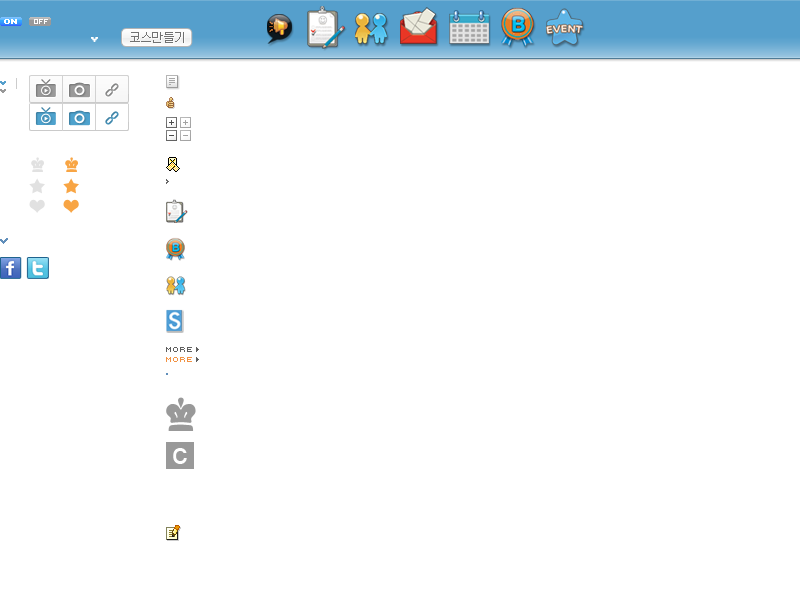
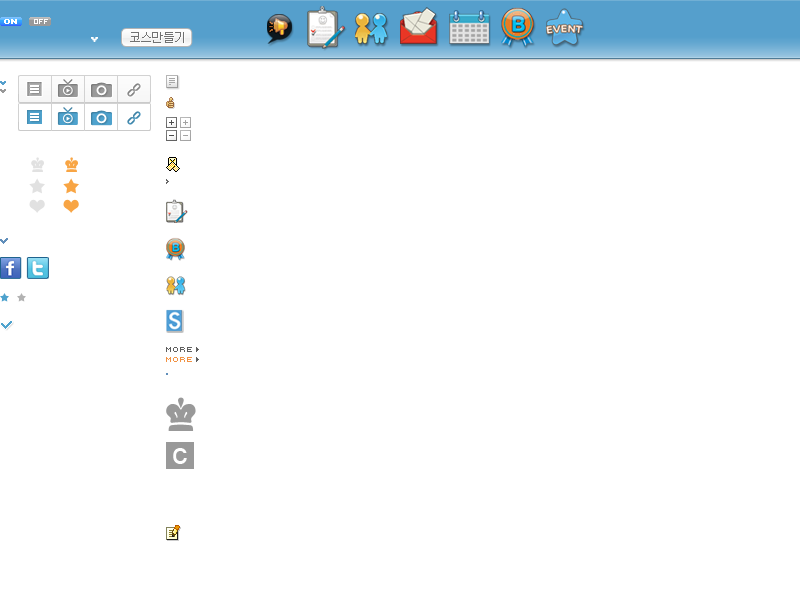
sera

Changed region(s): [[0.0312, 0.12, 0.1875, 0.21], [0.0, 0.48, 0.0312, 0.51]]

diff --git a/WebContent/sera/html/course.html b/WebContent/sera/html/course.html
@@ -113,11 +113,11 @@
     <!-- Course Define //-->
     <!-- Course Section -->
     <div class="course_section">
-      <div class="header">
-        <div>코스개요</div>
-      </div>
       <!-- 코스 개요 -->
       <div>
+        <div class="header mt10">
+          <div>코스개요</div>
+        </div>
         <ul class="content_area">
           <!-- photo-->
           <li class="">
@@ -154,7 +154,18 @@
               <!-- 코스 일정 -->
               <dl class="content bor_no">
                 <dt class="name">코스일정</dt>
-                <dd> </dd>
+                <dd class="gaugeBox fl mt10">
+                    <div class="gaugeOutline">
+                      <label class="gauge" style="width:50%;"></label>
+                    </div>
+                </dd>
+                <dd class="fr">
+                  <div class="btn_large_l">
+                    <div class="btn_large_r"> <span class="icon_blu_down2 mr5"></span>코스 가입하기</div>
+                  </div>
+                </dd>
+                <div class="mission_info">8개의 미션 중 2번쨰가 진행중입니다</div>
+                <div class="process">(30/60)</div>
               </dl>
             </div>
           </li>
@@ -163,10 +174,10 @@
       </div>
       <!-- 코스 개요 //-->
       <!-- 멘토 소개 -->
-      <div class="header">
-        <div>멘토 소개</div>
-      </div>
       <div>
+        <div class="header mt10">
+          <div>멘토 소개</div>
+        </div>
         <ul class="content_area">
           <!-- 개요내용 -->
           <li class="fr">
@@ -193,40 +204,59 @@
       <!-- 멘토 소개//-->
       <!-- 코스 리뷰 -->
       <div>
+        <div class="header mt10">
+          <div>코스리뷰</div>
+        </div>
         <ul class="content_area">
-          <li class="fl"> </li>
+          <li class="fl">
+            <div class="btn_large_l">
+              <div class="btn_large_r"><span class="icon_blu_down2 mr5"></span>리뷰 남기기</div>
+            </div>
+          </li>
           <!-- 리뷰 -->
           <li class="fr">
             <div class="panel_block fr">
-            <!-- Reply-->
-              <div class="reply_section">
-                <div class="photo"> <img src="../images/photo_mid48.jpg" /> </div>
-                <div class="reply_text w375 fl"> <span class="name">닉네임은 일곱자 : </span> 점점 시간이 지날수록 얼굴이 찐빵으로 그려지네요~~점점 시간이 지날수록 얼굴이 찐빵으로 그려지네요~~점점 시간이 지날수록 얼굴,...
-                  <div class="icon_date">3월 5일</div>
-                </div>
-                
-                <div class="btn_mid_l mt8 fl">
-                    <div class="btn_mid_r">
-                        <span class="icon_blu_down mr5"></span>
-                        친구초대
-                    </div>
-                </div>
-
-              </div>
-              <!-- Reply//-->
               <!-- Reply-->
               <div class="reply_section">
                 <div class="photo"> <img src="../images/photo_mid48.jpg" /> </div>
-                <div class="reply_text"> <span class="name">닉네임은 일곱자 : </span> 점점 시간이 지날수록 얼굴이 찐빵으로 그려지네요~~점점 시간이 지날수록 얼굴이 찐빵으로 그려지네요~~점점 시간이 지날수록 얼굴이 찐빵으로 그려지네요~~점점 시간이 지날수록 얼굴이 찐빵으로 그려지네요~~점점 시간이 지날수록 얼굴이 찐빵으로 그려지네요~~점점 시간이 지날수록 얼굴이 찐빵으로 그려지네요~~
+                <div class="reply_text w375 fl"> <span class="name">닉네임은 일곱자 : </span> 점점 시간이 지날수록 얼굴이 찐빵으로 그려지네요~~점점 시간이 지날수록 얼굴이...
                   <div class="icon_date">3월 5일</div>
+                </div>
+                <div class="fr">
+                  <div class="btn_mid_l mt8">
+                    <div class="btn_mid_r"> <span class="icon_blu_down mr5"></span>별점주기 </div>
+                  </div>
+                  <div class="star_score cb">
+                    <ul>
+                      <li class="icon_star_score current"><a href=""> </a></li>
+                      <li class="icon_star_score current"><a href=""> </a></li>
+                      <li class="icon_star_score current"><a href=""> </a></li>
+                      <li class="icon_star_score"><a href=""> </a></li>
+                      <li class="icon_star_score"><a href=""> </a></li>
+                    </ul>
+                  </div>
                 </div>
               </div>
               <!-- Reply//-->
               <!-- Reply-->
               <div class="reply_section end">
-                <textarea name="" cols="" rows="" class="fl" style="width:470px" placeholder="댓글을 남겨주세요!"></textarea>
-                <div class="btn_default_l ml10">
-                  <div class="btn_default_r"> 등록 </div>
+                <div class="photo"> <img src="../images/photo_mid48.jpg" /> </div>
+                <div class="reply_text w375 fl"> <span class="name">닉네임은 일곱자 : </span> 점점 시간이 지날수록 얼굴이 찐빵으로 그려지네요~~점점 시간이 지날수록 얼굴이...
+                  <div class="icon_date">3월 5일</div>
+                </div>
+                <div class="fr">
+                  <div class="btn_mid_l mt8">
+                    <div class="btn_mid_r"> <span class="icon_blu_down mr5"></span>별점주기 </div>
+                  </div>
+                  <div class="star_score cb">
+                    <ul>
+                      <li class="icon_star_score current"><a href=""> </a></li>
+                      <li class="icon_star_score current"><a href=""> </a></li>
+                      <li class="icon_star_score current"><a href=""> </a></li>
+                      <li class="icon_star_score"><a href=""> </a></li>
+                      <li class="icon_star_score"><a href=""> </a></li>
+                    </ul>
+                  </div>
                 </div>
               </div>
               <!-- Reply//-->
@@ -237,7 +267,7 @@
       </div>
       <!-- 코스 리뷰 //-->
       <!-- 더보기 -->
-      <div class="more">
+      <div class="more cb">
         <div class="icon_more">더보기</div>
       </div>
       <!-- 더보기 //-->

diff --git a/WebContent/sera/css/page.css b/WebContent/sera/css/page.css
@@ -74,19 +74,24 @@
 .btn_wstyle_l {background: url("../images/btn_wstyle_l.gif") no-repeat scroll 0 0; height:24px; float:left}
 .btn_wstyle_r {background: url("../images/btn_wstyle_r.gif") no-repeat scroll 100% 0; height:24px; padding:0 7px; line-height:26px; font-weight:bold}
 
+.btn_large_l {background: url("../images/btn_large_l.png") no-repeat scroll 0 0; height:39px; float:left}
+.btn_large_r {background: url("../images/btn_large_r.png") no-repeat scroll 100% 0; height:39px; padding:0 7px; line-height:41px; font-weight:bold; font-size:12px; color:#555555}
+
 .btn_default_l {background: url("../images/btn_default_l.png") no-repeat scroll 0 0; height:28px; float:left}
-.btn_default_r {background: url("../images/btn_default_r.png") no-repeat scroll 100% 0; height:28px; padding:0 15px; line-height:30px; font-weight:bold; font-size:12px; color:#555555}
+.btn_default_r {background: url("../images/btn_default_r.png") no-repeat scroll 100% 0; height:28px; padding:0 12px; line-height:30px; font-weight:bold; font-size:12px; color:#555555}
 
 .btn_mid_l {background: url("../images/btn_mid_l.png") no-repeat scroll 0 0; height:21px; float:left}
 .btn_mid_r {background: url("../images/btn_mid_r.png") no-repeat scroll 100% 0; height:21px; padding:0 10px; line-height:21px; font-size:12px; color:#555555; font-weight:normal}
 
 /* Icon in Mypage */
-.icon_video a {background: url("../images/icon.png") no-repeat scroll -29px -75px; width:34px; height:28px; display:block}
-.icon_video a:hover {background-position:-29px -103px}
-.icon_photo a {background: url("../images/icon.png") no-repeat scroll -63px -75px; width:33px; height:28px; display:block}
-.icon_photo a:hover {background-position:-63px -103px}
-.icon_link a {background: url("../images/icon.png") no-repeat scroll -96px -75px; width:33px; height:28px; display:block}
-.icon_link a:hover {background-position:-96px -103px}
+.icon_memo a {background: url("../images/icon.png") no-repeat scroll -18px -75px; width:34px; height:28px; display:block}
+.icon_memo a:hover {background-position:-18px -103px}
+.icon_video a {background: url("../images/icon.png") no-repeat scroll -52px -75px; width:34px; height:28px; display:block}
+.icon_video a:hover {background-position:-52px -103px}
+.icon_photo a {background: url("../images/icon.png") no-repeat scroll -85px -75px; width:33px; height:28px; display:block}
+.icon_photo a:hover {background-position:-85px -103px}
+.icon_link a {background: url("../images/icon.png") no-repeat scroll -118px -75px; width:33px; height:28px; display:block}
+.icon_link a:hover {background-position:-118px -103px}
 .icon_mytext a {background: url("../images/icon.png") no-repeat scroll -165px -75px; height:15px; display:block; padding:0 0 0 20px}
 .icon_newsfeed a {}
 .icon_date {background: url("../images/icon.png") no-repeat scroll -165px -74px; height:15px; display:block; padding:0 0 0 20px; color:#666666; margin-top:5px}
@@ -119,6 +124,9 @@
 .icon_blu_down {background: url("../images/icon.png") no-repeat scroll 0 -237px; width:8px; height:8px; display:inline-block}
 .icon_facebook a {background: url("../images/icon.png") no-repeat scroll 0 -257px; width:22px; height:22px; display:block; font-size:0}
 .icon_twitter a {background: url("../images/icon.png") no-repeat scroll -27px -257px; width:22px; height:22px; display:block; font-size:0}
+.icon_star_score {background: url("../images/icon.png") no-repeat scroll -17px -293px; width:9px; height:9px; display:block; margin-right:3px}
+.icon_star_score.current {background-position:0 -293px}
+.icon_blu_down2 {background: url("../images/icon.png") no-repeat scroll 0 -320px; width:14px; height:11px; display:inline-block}
 
 /* Panel Section */
 .panel_section { overflow:hidden; clear:both}
@@ -163,7 +171,8 @@
 .course_section { overflow:hidden; clear:both}
 .course_section .header {border-bottom:1px solid #559fcc; height:21px}
 .course_section .header div {color:#333333; font-weight:bold; font-size:14px}
-
+.star_score {margin:0 12px; overflow:hidden; text-align:center; padding-top:5px}
+.star_score li { float:left !important}
 
 
 
@@ -212,7 +221,6 @@
 .t_gray { color:#9a9a9a}
 .tb { font-weight:bold}
 
-
 /* Width */
 .w375 {width:375px !important}
 
@@ -224,6 +232,13 @@
 .paging .pre {float: left; margin-right: 10px}
 .paging .num {float: left}
 .paging .next {float: left; margin-left: 10px}
+
+/* Gauge Box */
+.gaugeBox {clear: both; height: 10px; width:390px;}
+.gaugeBox .gaugeOutline {background: none repeat scroll 0 0 #FFFFFF; border: 1px solid #D2D2D2; border-radius: 10px 10px 10px 10px; float: left; height: 7px; padding: 1px; width: 390px}
+.gaugeBox .gaugeOutline .gauge {background: none repeat scroll 0 0 #559FCC; border-radius: 10px 10px 10px 10px; height: 7px; display:block}
+.process {float: right; height: 12px; margin: 5px 20px 0 0; width: 38px; color:#999999}
+.mission_info { float:left; width:200px; margin: 5px 0 0 0; color:#999999}
 
 /* Footer */
 #sera_footer {background: none repeat scroll 0 0 #172537; clear: both; height:28px; width: 100%; font-size:11px}

diff --git a/WebContent/sera/html/mypage.html b/WebContent/sera/html/mypage.html
@@ -95,7 +95,8 @@
           <div class="attach_file">
             <ul>
               <li class="t_s11"> <span class="t_red">0</span>/1000kbyte</li>
-              <li class="icon_video ml10"><a href=""> </a></li>
+              <li class="icon_memo ml10"><a href=""> </a></li>
+              <li class="icon_video"><a href=""> </a></li>
               <li class="icon_photo"><a href=""> </a></li>
               <li class="icon_link"><a href=""> </a></li>
               <!-- Btn 등록-->
